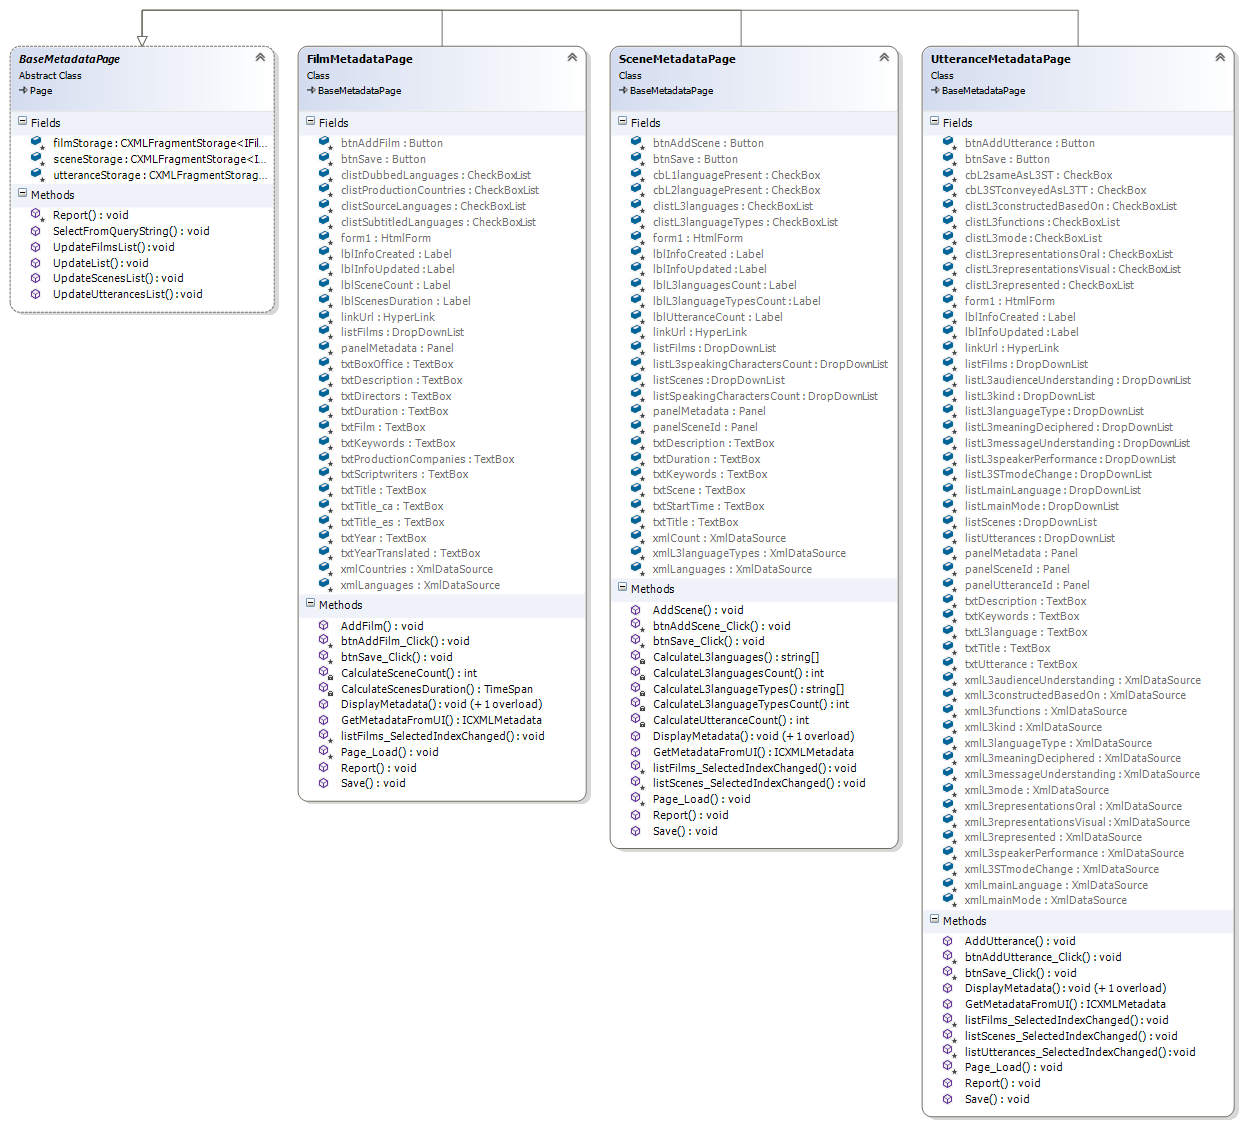
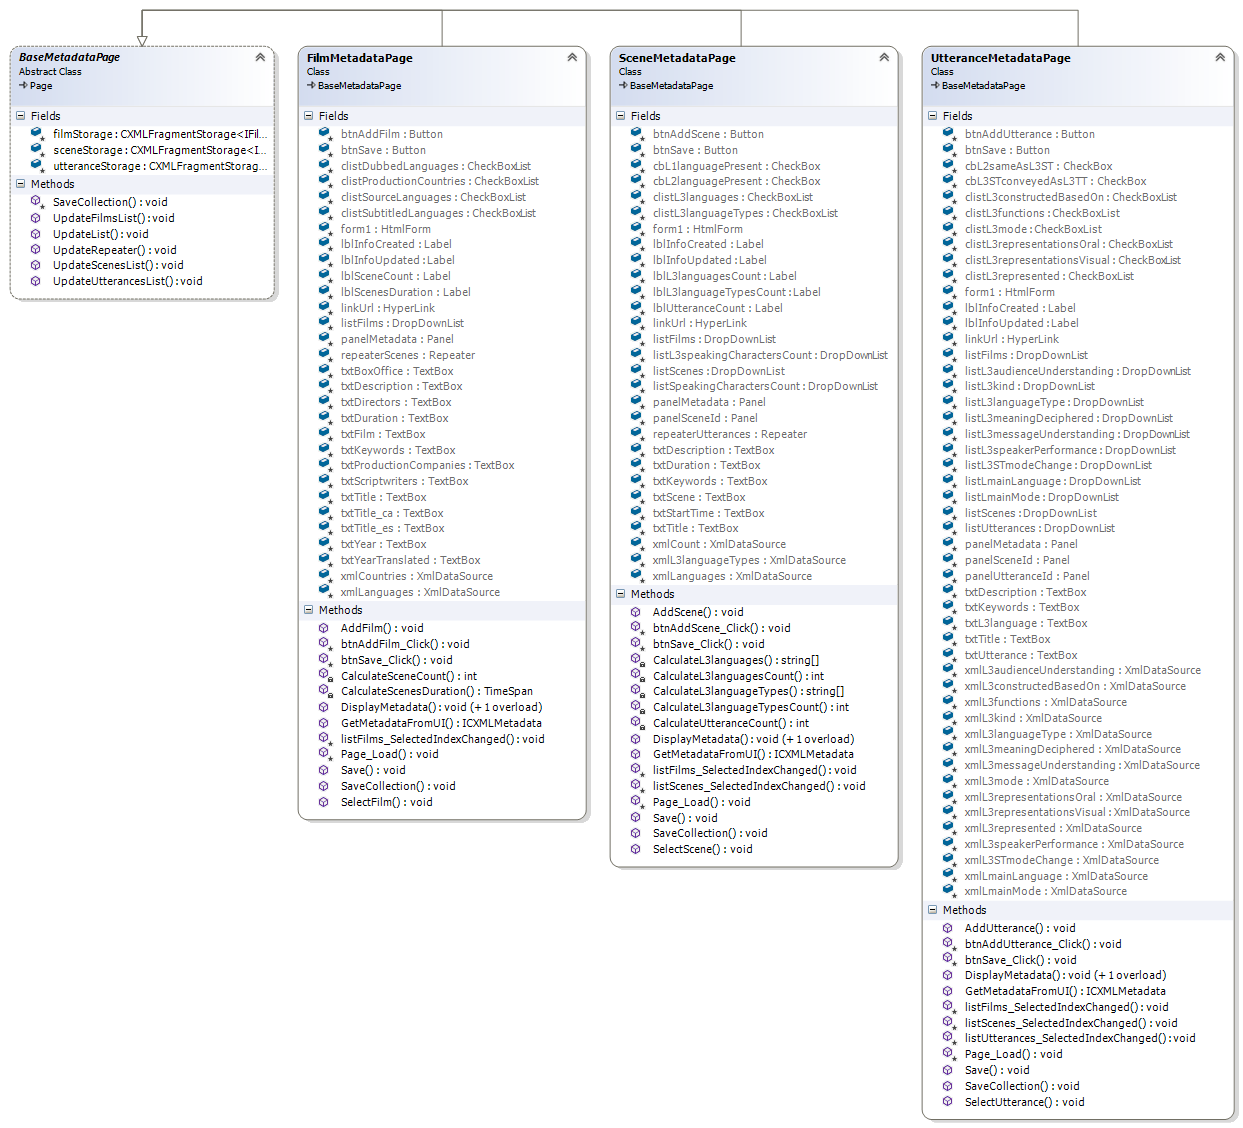
- Updated L3STmodeChange selection items - Updated question labels - Added question style in CSS and class="question" in pages to respective DIVs - Updated diagrams - Renamed "Report" to "SaveCollection" - Changed Now to UtcNow - At Save button event handler now calling Save and after that SaveColle

Changed region(s): [[0.4891, 0.0311, 0.9783, 0.9956], [0.0, 0.0311, 0.4891, 0.7467]]

diff --git a/css/metadata.css b/css/metadata.css
@@ -1,7 +1,7 @@
 /*
 Project: Trafilm.Gallery (http://github.com/zoomicon/Trafilm.Gallery)
 Filename: metadata.cs
-Version: 20131119
+Version: 20160513
 */
 
 div
@@ -49,6 +49,12 @@ div
   padding-left: 5px;
   padding-top: 0px;
   padding-bottom: 15px;
+}
+
+.question
+{
+  background-color: lightgoldenrodyellow;
+  padding: 5px;
 }
 
 .label

diff --git a/film/metadata/default.aspx.cs b/film/metadata/default.aspx.cs
@@ -1,6 +1,6 @@
 //Project: Trafilm.Gallery (http://github.com/zoomicon/Trafilm.Gallery)
 //Filename: film\metadata\default.aspx.cs
-//Version: 20160512
+//Version: 20160513
 
 using Trafilm.Metadata;
 using Trafilm.Metadata.Models;
@@ -136,10 +136,10 @@ namespace Trafilm.Gallery
       film.ReferenceId = key;
 
       try { film.InfoCreated = DateTime.ParseExact(lblInfoCreated.Text, CXML.DEFAULT_DATETIME_FORMAT, CultureInfo.InvariantCulture); }
-      catch { film.InfoCreated = DateTime.Now; }
+      catch { film.InfoCreated = DateTime.UtcNow; }
 
       try { film.InfoUpdated = DateTime.ParseExact(lblInfoUpdated.Text, CXML.DEFAULT_DATETIME_FORMAT, CultureInfo.InvariantCulture); }
-      catch { film.InfoUpdated = DateTime.Now; }
+      catch { film.InfoUpdated = DateTime.UtcNow; }
 
       film.Keywords = UI.GetCommaSeparated(txtKeywords);
 
@@ -176,13 +176,13 @@ namespace Trafilm.Gallery
 
     public void Save()
     {
-      lblInfoUpdated.Text = DateTime.Now.ToString(CXML.DEFAULT_DATETIME_FORMAT);
+      lblInfoUpdated.Text = DateTime.UtcNow.ToString(CXML.DEFAULT_DATETIME_FORMAT);
       filmStorage[listFilms.SelectedValue] = (IFilm)GetMetadataFromUI();
     }
 
-    public void Report()
+    public void SaveCollection()
     {
-      Report(Path.Combine(Request.PhysicalApplicationPath, "film/films.cxml"), "Trafilm Gallery Films", Film.MakeFilmFacetCategories(), filmStorage.Values);
+      SaveCollection(Path.Combine(Request.PhysicalApplicationPath, "film/films.cxml"), "Trafilm Gallery Films", Film.MakeFilmFacetCategories(), filmStorage.Values);
     }
 
     #endregion
@@ -232,6 +232,7 @@ namespace Trafilm.Gallery
     protected void btnSave_Click(object sender, EventArgs e)
     {
       Save();
+      SaveCollection();
     }
 
     #endregion

diff --git a/utterance/metadata/default.aspx.cs b/utterance/metadata/default.aspx.cs
@@ -1,6 +1,6 @@
 //Project: Trafilm.Gallery (http://github.com/zoomicon/Trafilm.Gallery)
 //Filename: utterance\metadata\default.aspx.cs
-//Version: 20160512
+//Version: 20160513
 
 using Trafilm.Metadata;
 using Trafilm.Metadata.Models;
@@ -192,12 +192,13 @@ namespace Trafilm.Gallery
 
     public void Save()
     {
+      lblInfoUpdated.Text = DateTime.UtcNow.ToString(CXML.DEFAULT_DATETIME_FORMAT);
       utteranceStorage[listUtterances.SelectedValue] = (IUtterance)GetMetadataFromUI();
     }
 
-    public void Report()
+    public void SaveCollection()
     {
-      Report(Path.Combine(Request.PhysicalApplicationPath, "utterance/utterances.cxml"), "Trafilm Gallery Utterances", Utterance.MakeUtteranceFacetCategories(), utteranceStorage.Values);
+      SaveCollection(Path.Combine(Request.PhysicalApplicationPath, "utterance/utterances.cxml"), "Trafilm Gallery Utterances", Utterance.MakeUtteranceFacetCategories(), utteranceStorage.Values);
     }
 
     #endregion
@@ -241,8 +242,8 @@ namespace Trafilm.Gallery
 
     protected void btnSave_Click(object sender, EventArgs e)
     {
-      lblInfoUpdated.Text = DateTime.Now.ToString(CXML.DEFAULT_DATETIME_FORMAT);
       Save();
+      SaveCollection();
     }
 
     #endregion

diff --git a/film/metadata/default.aspx.designer.cs b/film/metadata/default.aspx.designer.cs
@@ -247,15 +247,6 @@ namespace Trafilm.Gallery {
         protected global::System.Web.UI.WebControls.CheckBoxList clistSubtitledLanguages;
         
         /// <summary>
-        /// lblSceneCount control.
-        /// </summary>
-        /// <remarks>
-        /// Auto-generated field.
-        /// To modify move field declaration from designer file to code-behind file.
-        /// </remarks>
-        protected global::System.Web.UI.WebControls.Label lblSceneCount;
-        
-        /// <summary>
         /// lblScenesDuration control.
         /// </summary>
         /// <remarks>
@@ -263,6 +254,15 @@ namespace Trafilm.Gallery {
         /// To modify move field declaration from designer file to code-behind file.
         /// </remarks>
         protected global::System.Web.UI.WebControls.Label lblScenesDuration;
+        
+        /// <summary>
+        /// lblSceneCount control.
+        /// </summary>
+        /// <remarks>
+        /// Auto-generated field.
+        /// To modify move field declaration from designer file to code-behind file.
+        /// </remarks>
+        protected global::System.Web.UI.WebControls.Label lblSceneCount;
         
         /// <summary>
         /// repeaterScenes control.

diff --git a/scene/metadata/default.aspx.cs b/scene/metadata/default.aspx.cs
@@ -1,6 +1,6 @@
 //Project: Trafilm.Gallery (http://github.com/zoomicon/Trafilm.Gallery)
 //Filename: scene\metadata\default.aspx.cs
-//Version: 20160512
+//Version: 20160513
 
 using Metadata.CXML;
 using Trafilm.Metadata.Models;
@@ -166,13 +166,13 @@ namespace Trafilm.Gallery
 
     public void Save()
     {
-      lblInfoUpdated.Text = DateTime.Now.ToString(CXML.DEFAULT_DATETIME_FORMAT);
+      lblInfoUpdated.Text = DateTime.UtcNow.ToString(CXML.DEFAULT_DATETIME_FORMAT);
       sceneStorage[listScenes.SelectedValue] = (IScene)GetMetadataFromUI();
     }
 
-    public void Report()
+    public void SaveCollection()
     {
-      Report(Path.Combine(Request.PhysicalApplicationPath, "scene/scenes.cxml"), "Trafilm Gallery Scenes", Scene.MakeSceneFacetCategories(), sceneStorage.Values);
+      SaveCollection(Path.Combine(Request.PhysicalApplicationPath, "scene/scenes.cxml"), "Trafilm Gallery Scenes", Scene.MakeSceneFacetCategories(), sceneStorage.Values);
     }
 
     #endregion
@@ -241,6 +241,7 @@ namespace Trafilm.Gallery
     protected void btnSave_Click(object sender, EventArgs e)
     {
       Save();
+      SaveCollection();
     }
 
     #endregion

diff --git a/metadata/BaseMetadataPage.cs b/metadata/BaseMetadataPage.cs
@@ -59,7 +59,7 @@ namespace Trafilm.Gallery
       UpdateList(list, utteranceStorage.Keys, queryStringItem);
     }
 
-    protected void Report(string cxmlFilename, string collectionTitle, IEnumerable<XElement> facetCategories, IEnumerable<ICXMLMetadata> metadataItems)
+    protected void SaveCollection(string cxmlFilename, string collectionTitle, IEnumerable<XElement> facetCategories, IEnumerable<ICXMLMetadata> metadataItems)
     {
       Directory.CreateDirectory(Path.GetDirectoryName(Path.GetFullPath(cxmlFilename))); //create any parent directories needed
       using (XmlWriter cxml = XmlWriter.Create(cxmlFilename))
